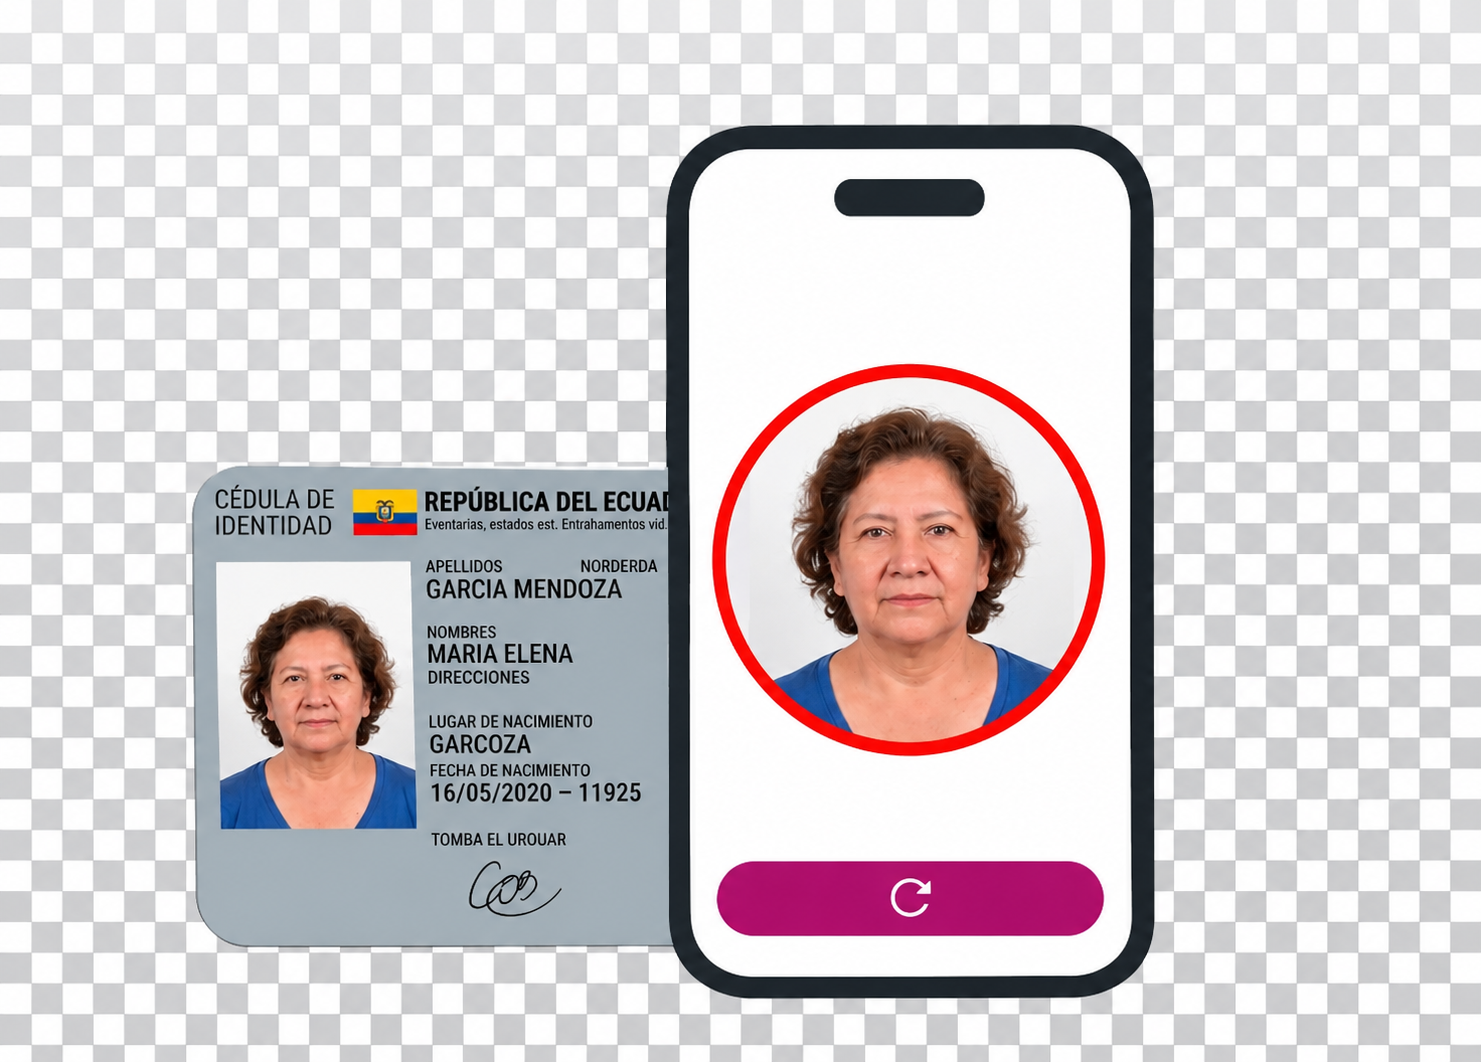
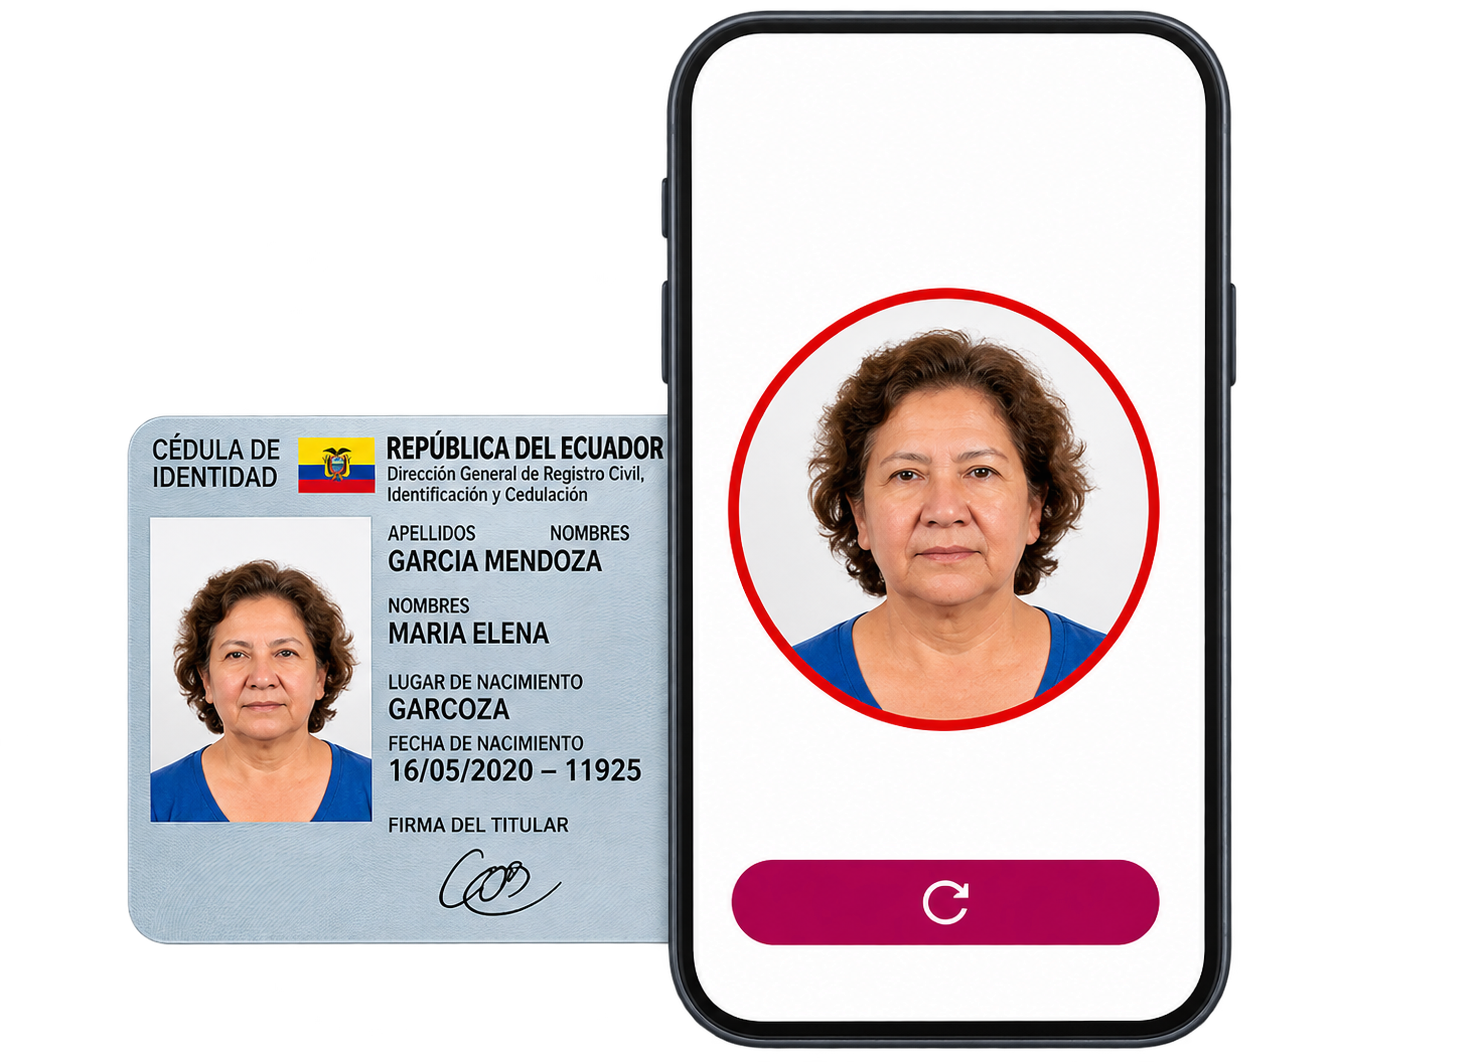
add bienvenida image

diff --git a/app/biometria/page.tsx b/app/biometria/page.tsx
@@ -264,7 +264,7 @@ function VerificarTab() {
   <img
     src="/bienvenida.png"
     alt="Bienvenida biométrica"
-    className="w-52 h-auto"
+    className="w-96 h-auto" 
     onError={e => { (e.target as HTMLImageElement).style.display = 'none' }}
   />
 </div>
@@ -354,7 +354,7 @@ function VerificarTab() {
               <img
                 src="/principal.png"
                 alt="Guía posición rostro"
-                className="w-52 h-auto"
+                className="w-102 h-auto"
                 onError={e => { (e.target as HTMLImageElement).style.display = 'none' }}
               />
             </div>
